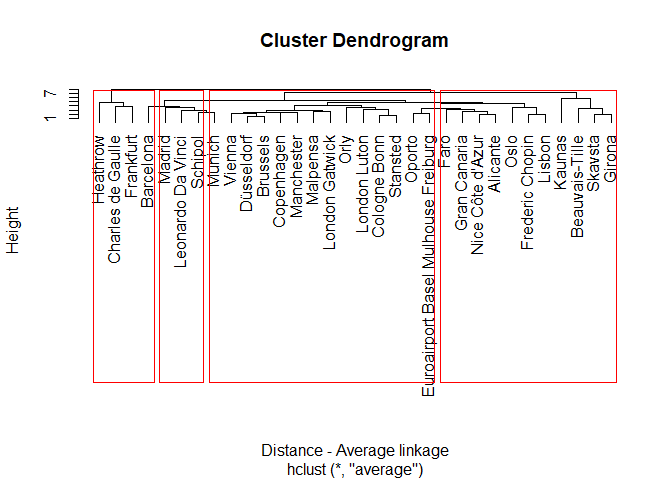
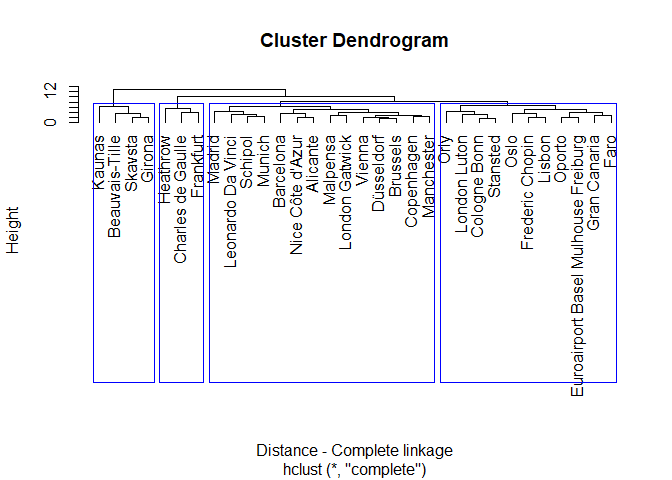
cluster

diff --git a/3-ClusterAnalysis.md b/3-ClusterAnalysis.md
@@ -164,7 +164,6 @@ with(df, text(Numberofairlines ~ Destinations, label = Airport, pos = 4, cex = 0
 > **Note**: The listwise deletion removes the whole observation that has
 > a missing value from the analysis. This may be appropriate only in
 > some cases. There are many other forms of treating missing values.
-> Take a look for yourselves.
 
   - Leave only continuous variables, and take out “Ordem”
 
@@ -257,7 +256,22 @@ head(df_reduced)
 
 #### Let us execute the many types of hierarchical clustering
 
-**1. Complete linkage (Farthest neighbor) clustering algorithm**
+**1. Single linkage (nearest neighbor) clustering algorithm**
+
+Used a bottom-up approach, by linking two clusters that have the closest
+distance between each other.
+
+``` r
+models <- hclust(distance, "single")
+plot(models, labels = df$Airport, xlab = "Distance - Single linkage", hang = -1)
+
+# Visualize the cut on the tree 
+rect.hclust(models, 4, border = "purple") 
+```
+
+![](README_files/3-ClusterAnalysis/unnamed-chunk-13-1.png)<!-- -->
+
+**2. Complete linkage (Farthest neighbor) clustering algorithm**
 
 Based on the maximum distance between observations in each cluster.
 
@@ -269,9 +283,9 @@ plot(modelc, labels = df$Airport, xlab = "Distance - Complete linkage", hang = -
 rect.hclust(modelc, 4, border = "blue") 
 ```
 
-![](README_files/3-ClusterAnalysis/unnamed-chunk-13-1.png)<!-- -->
+![](README_files/3-ClusterAnalysis/unnamed-chunk-14-1.png)<!-- -->
 
-**2. Average linkage between groups**
+**3. Average linkage between groups**
 
 The distance between clusters is the average of the distances between
 observations in one cluster to all the members in the other cluster.
@@ -282,9 +296,9 @@ plot(modela, labels = df$Airport, xlab = "Distance - Average linkage", hang = -1
 rect.hclust(modelc, 4, border = "red")
 ```
 
-![](README_files/3-ClusterAnalysis/unnamed-chunk-14-1.png)<!-- -->
+![](README_files/3-ClusterAnalysis/unnamed-chunk-15-1.png)<!-- -->
 
-**3. Ward\`s method**
+**4. Ward\`s method**
 
 The measures of similarity are the sum of squares within the cluster
 summed over all variables.
@@ -296,9 +310,9 @@ plot(modelw, labels = df$Airport, xlab = "Distance - Ward method", hang = -1)
 rect.hclust(modelw, 4, border = "orange")
 ```
 
-![](README_files/3-ClusterAnalysis/unnamed-chunk-15-1.png)<!-- -->
+![](README_files/3-ClusterAnalysis/unnamed-chunk-16-1.png)<!-- -->
 
-**4. Centroid method**
+**5. Centroid method**
 
 The similarity between two clusters is the distance between its
 centroids.
@@ -309,11 +323,12 @@ plot(modelcen, labels = df$Airport, xlab = "Distance - Centroid method", hang = 
 rect.hclust(modelcen, 4, border = "green")
 ```
 
-![](README_files/3-ClusterAnalysis/unnamed-chunk-16-1.png)<!-- -->
+![](README_files/3-ClusterAnalysis/unnamed-chunk-17-1.png)<!-- -->
 
 #### Now lets evaluate the membership of each observation with the cutree function for each method.
 
 ``` r
+member_single <- cutree(models, 4)
 member_com <- cutree(modelc, 4)
 member_av <- cutree(modela, 4)
 member_ward <- cutree(modelw, 4)
@@ -335,17 +350,46 @@ table(member_com, member_av)
     ##          3  0  3  0  0
     ##          4  0  0  3  1
 
+> **Note:** Try comparing other methods, and evaluate how common they
+> are.
+
 #### Silhouette Plot
 
-plot(silhouette(member\_com, distance)) plot(silhouette(member\_av,
-distance)) plot(silhouette(member\_ward, distance))
-plot(silhouette(member\_cen, distance))
+``` r
+plot(silhouette(member_single, distance))
+```
 
-> **Note:** Analyzes how similiar an observation is to its own cluster
-> compared to other clusters. The clustering configuration is
-> appropriate when most objects have high values. Low or negative values
-> indicate that the clustering does not have an appropriate number of
-> clusters.
+![](README_files/3-ClusterAnalysis/unnamed-chunk-20-1.png)<!-- -->
+
+``` r
+plot(silhouette(member_com, distance))
+```
+
+![](README_files/3-ClusterAnalysis/unnamed-chunk-20-2.png)<!-- -->
+
+``` r
+plot(silhouette(member_av, distance))
+```
+
+![](README_files/3-ClusterAnalysis/unnamed-chunk-20-3.png)<!-- -->
+
+``` r
+plot(silhouette(member_ward, distance))
+```
+
+![](README_files/3-ClusterAnalysis/unnamed-chunk-20-4.png)<!-- -->
+
+``` r
+plot(silhouette(member_cen, distance))
+```
+
+![](README_files/3-ClusterAnalysis/unnamed-chunk-20-5.png)<!-- -->
+
+> **Note:** The silhouette plot evaluates how similiar an observation is
+> to its own cluster compared to other clusters. The clustering
+> configuration is appropriate when most objects have high values. Low
+> or negative values indicate that the clustering method is not
+> appropriate or the number of clusters is not ideal.
 
 ### NON-HiERARCHICAL CLUSTERING
 
@@ -449,7 +493,7 @@ betSS_totSS[[i]] <- k[[i]]$betweenss/k[[i]]$totss
 plot(1:10, betSS_totSS, type = "b", ylab = "Between SS / Total SS", xlab = "Number of clusters")
 ```
 
-![](README_files/3-ClusterAnalysis/unnamed-chunk-22-1.png)<!-- -->
+![](README_files/3-ClusterAnalysis/unnamed-chunk-24-1.png)<!-- -->
 
 #### Let us try to take out the outliers and see the diference in the k-means clustering
 
@@ -462,9 +506,11 @@ par(mar=c(15,2,1,1)) # Make labels fit in the boxplot
 boxplot(df_scaled, las = 2)
 ```
 
-![](README_files/3-ClusterAnalysis/unnamed-chunk-23-1.png)<!-- -->
+![](README_files/3-ClusterAnalysis/unnamed-chunk-25-1.png)<!-- -->
 
-Detect the outliers
+  - **Detect the outliers**
+
+<!-- end list -->
 
 ``` r
 outliers <- boxplot.stats(df_scaled)$out
@@ -475,7 +521,9 @@ outliers
     ##  [1] 2.630622 2.772024 2.772024 3.611626 2.916185 2.523102 2.732030 2.515406
     ##  [9] 3.308457 3.285459
 
-remove rows with outliers
+  - **Remove rows with outliers**
+
+<!-- end list -->
 
 ``` r
 df_no_outliers <- which(df_scaled %in% outliers,) 
@@ -493,20 +541,20 @@ km_no_outliers <- kmeans(df_no_outliers, 3)
 km_no_outliers
 ```
 
-    ## K-means clustering with 3 clusters of sizes 3, 1, 6
+    ## K-means clustering with 3 clusters of sizes 4, 3, 3
     ## 
     ## Cluster means:
     ##        [,1]
-    ## 1  89.66667
-    ## 2 306.00000
-    ## 3 507.16667
+    ## 1 539.00000
+    ## 2  89.66667
+    ## 3 397.66667
     ## 
     ## Clustering vector:
-    ##  [1] 1 1 1 2 3 3 3 3 3 3
+    ##  [1] 2 2 2 3 3 3 1 1 1 1
     ## 
     ## Within cluster sum of squares by cluster:
-    ## [1]  7708.667     0.000 15042.833
-    ##  (between_SS / total_SS =  93.9 %)
+    ## [1]  2882.000  7708.667 12604.667
+    ##  (between_SS / total_SS =  93.8 %)
     ## 
     ## Available components:
     ## 
@@ -526,7 +574,7 @@ plot(Numberofairlines ~ Destinations, df, col = km_clust$cluster)
 with(df, text(Numberofairlines ~ Destinations, label = Airport, pos = 1, cex = 0.6))
 ```
 
-![](README_files/3-ClusterAnalysis/unnamed-chunk-27-1.png)<!-- -->
+![](README_files/3-ClusterAnalysis/unnamed-chunk-29-1.png)<!-- -->
 
   - **K-means without outliers**
 
@@ -537,4 +585,4 @@ plot(Numberofairlines ~ Destinations, df, col = km_no_outliers$cluster)
 with(df, text(Numberofairlines ~ Destinations, label = Airport, pos = 1, cex = 0.6))
 ```
 
-![](README_files/3-ClusterAnalysis/unnamed-chunk-28-1.png)<!-- -->
+![](README_files/3-ClusterAnalysis/unnamed-chunk-30-1.png)<!-- -->
